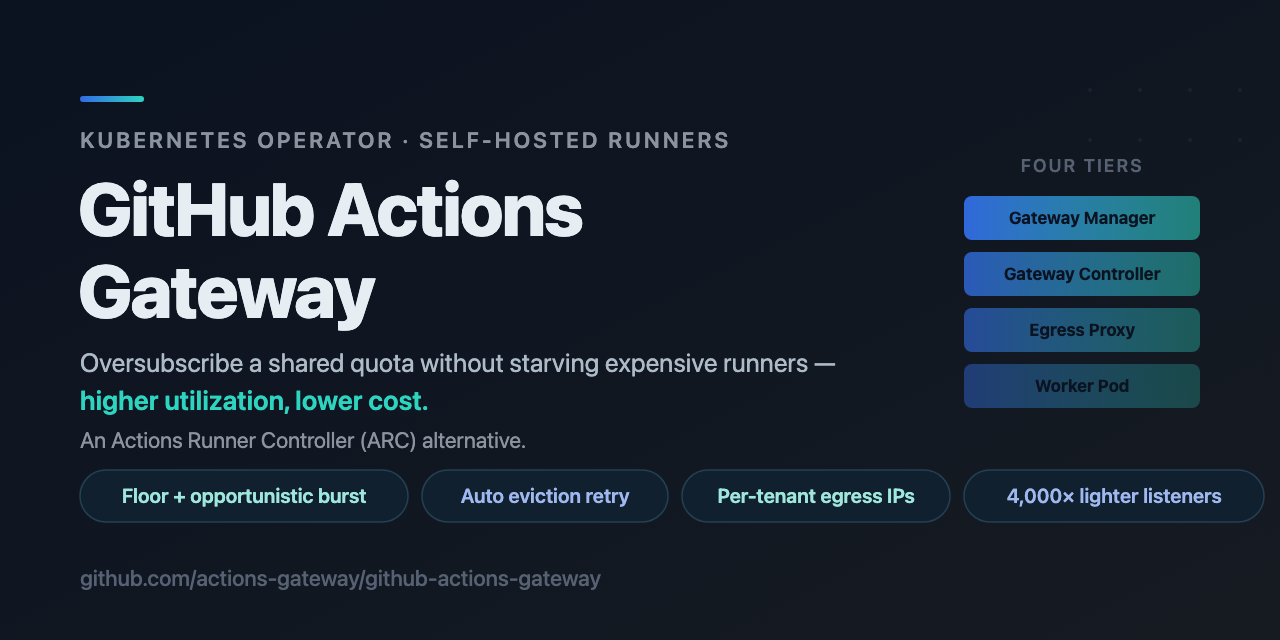
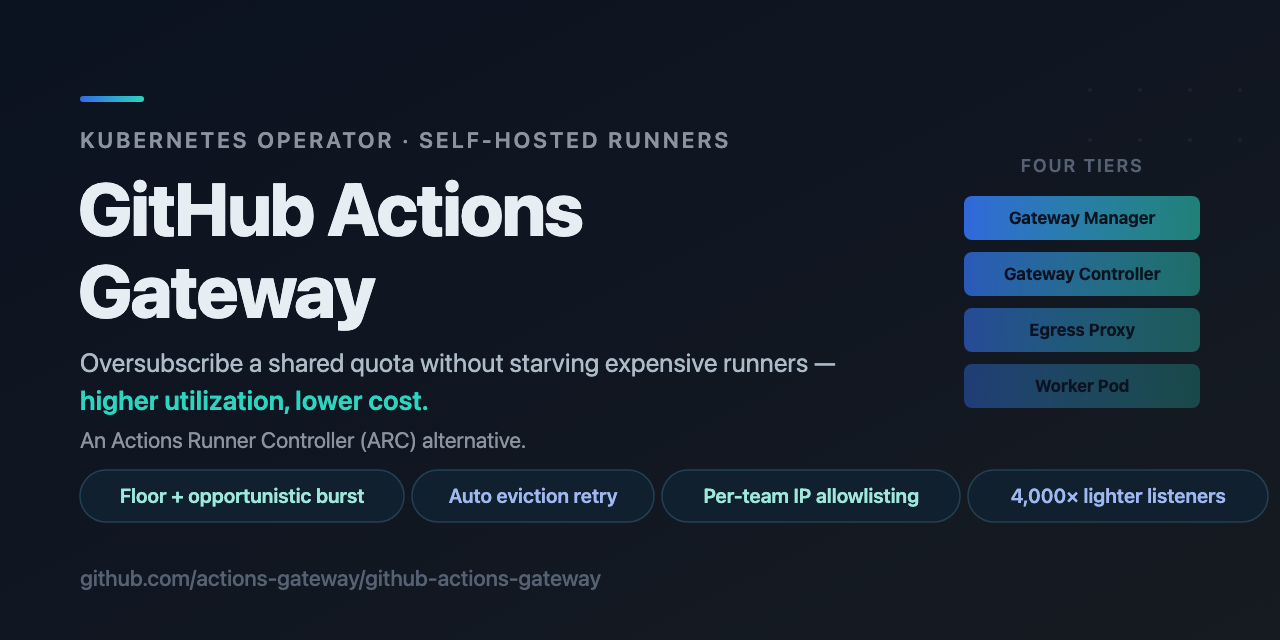
docs: lead egress selling point with value (allowlisting/blast-radius) not mechanism

diff --git a/README.md b/README.md
@@ -1,6 +1,6 @@
 # GitHub Actions Gateway
 
-> An Actions Runner Controller (ARC) alternative for self-hosted GitHub Actions runners on multi-tenant Kubernetes — oversubscribe a shared quota for higher utilization and lower cost, recover evicted jobs automatically, and give each tenant isolated egress IPs.
+> An Actions Runner Controller (ARC) alternative for self-hosted GitHub Actions runners on multi-tenant Kubernetes — oversubscribe a shared quota for higher utilization and lower cost, recover evicted jobs automatically, and isolate every tenant's GitHub egress for per-team IP allowlisting and contained blast radius.
 
 Each tenant operates many runner groups (CPU, GPU, large-memory, …) inside their own namespace under a single `ResourceQuota`, all driven by one Kubernetes operator.
 